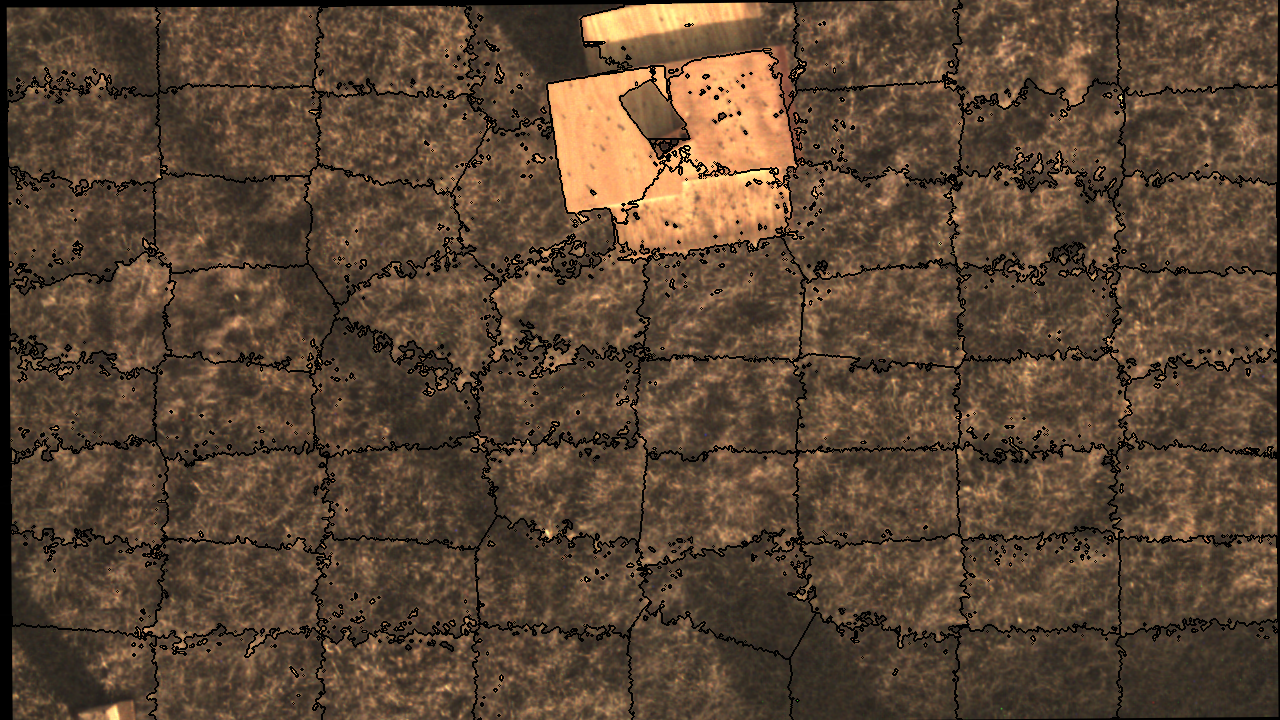
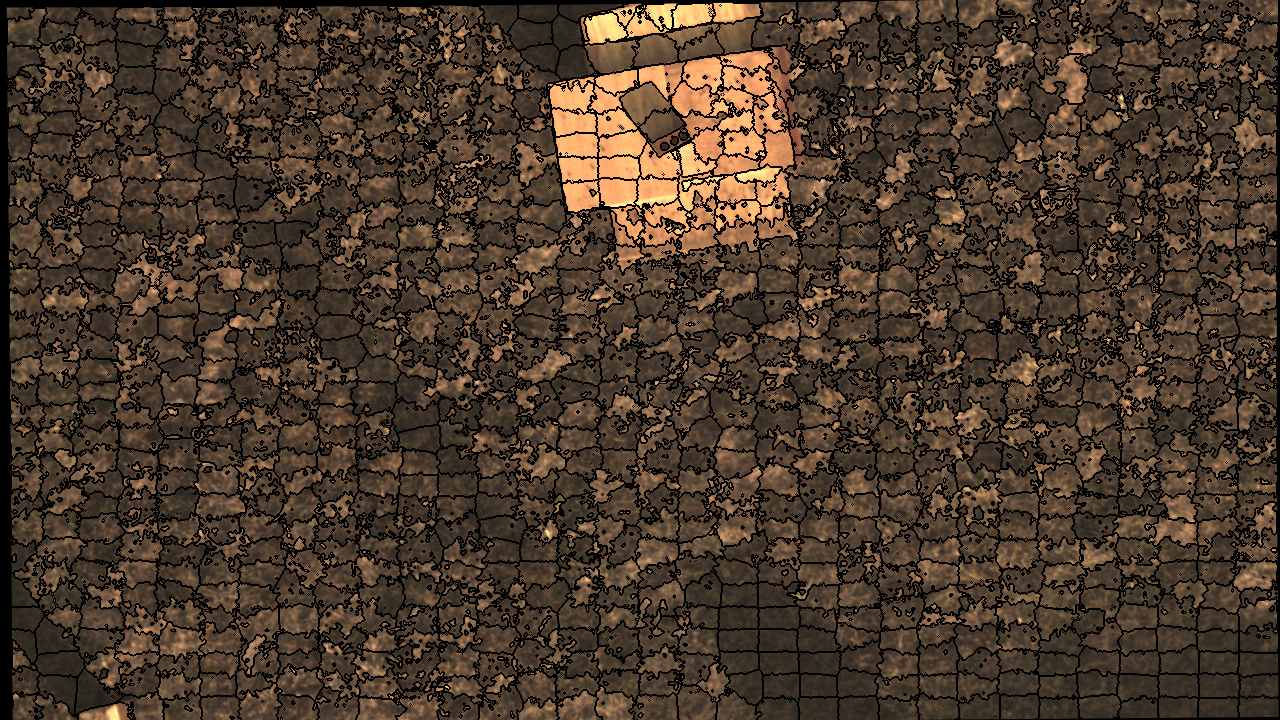
new functions. Refinement.

Changed region(s): [[0.0, 0.0, 1.0, 1.0], [0.0, 0.0, 0.0312, 0.0306]]

diff --git a/slic_stand_alone_fn.m b/slic_stand_alone_fn.m
@@ -1,3 +1,5 @@
+function slic_stand_alone_fn(img_num)
+
 %% Implementation of Simple Linear Iterative Clustering (SLIC)
 %
 % Input:
@@ -11,9 +13,10 @@
 %   - imgVis:  the input image overlaid with the segmentation
 
 % Put your SLIC implementation here
-% 1260, 1264, 1266, 1268, 1370, 1373, 1377, 1380, 1383, 1390, 1420, 1425, 
+% 1248, 1251, 1255, 1260, 1264, 1266, 1268, 1370, 1373, 1377, 1380, 1383, 1390, 1420, 1425, 
 % 1428, 1430, 1488, 1491, 1493, 1496, 1498, 1501, 1503, 1506, 1508, 1510, 1512
-img_num = 1392
+% img_num = 1428
+display(img_num)
 input_folder = 'input/';
 inp_img_fold = '/mnt/win/WORK/kentland19jul/22m_extracted_data/left_rect/';
 inp_disp_fold = '/mnt/win/WORK/kentland19jul/22m_extracted_data/disparities/';
@@ -184,6 +187,7 @@ for iter = 1: numIter
 end
 
 % figure(2), imshow(imgVis);
+% title(num2str(img_num));
 imwrite(imgVis,strcat(output_folder,num2str(img_num),'_segmented.png'));
 
 %% 3) Combine similar clusters
@@ -297,6 +301,7 @@ imgVis = img;
 imgVis(cat(3, bMap, bMap, bMap)) = 1;
 %figure(1), imshow(img)
 figure(3), imshow(imgVis)
+title(num2str(img_num));
 cIndMap = uint16(cIndMap);
 
 imwrite(imgVis,strcat(output_folder,num2str(img_num),'_segments_joined.png'));
